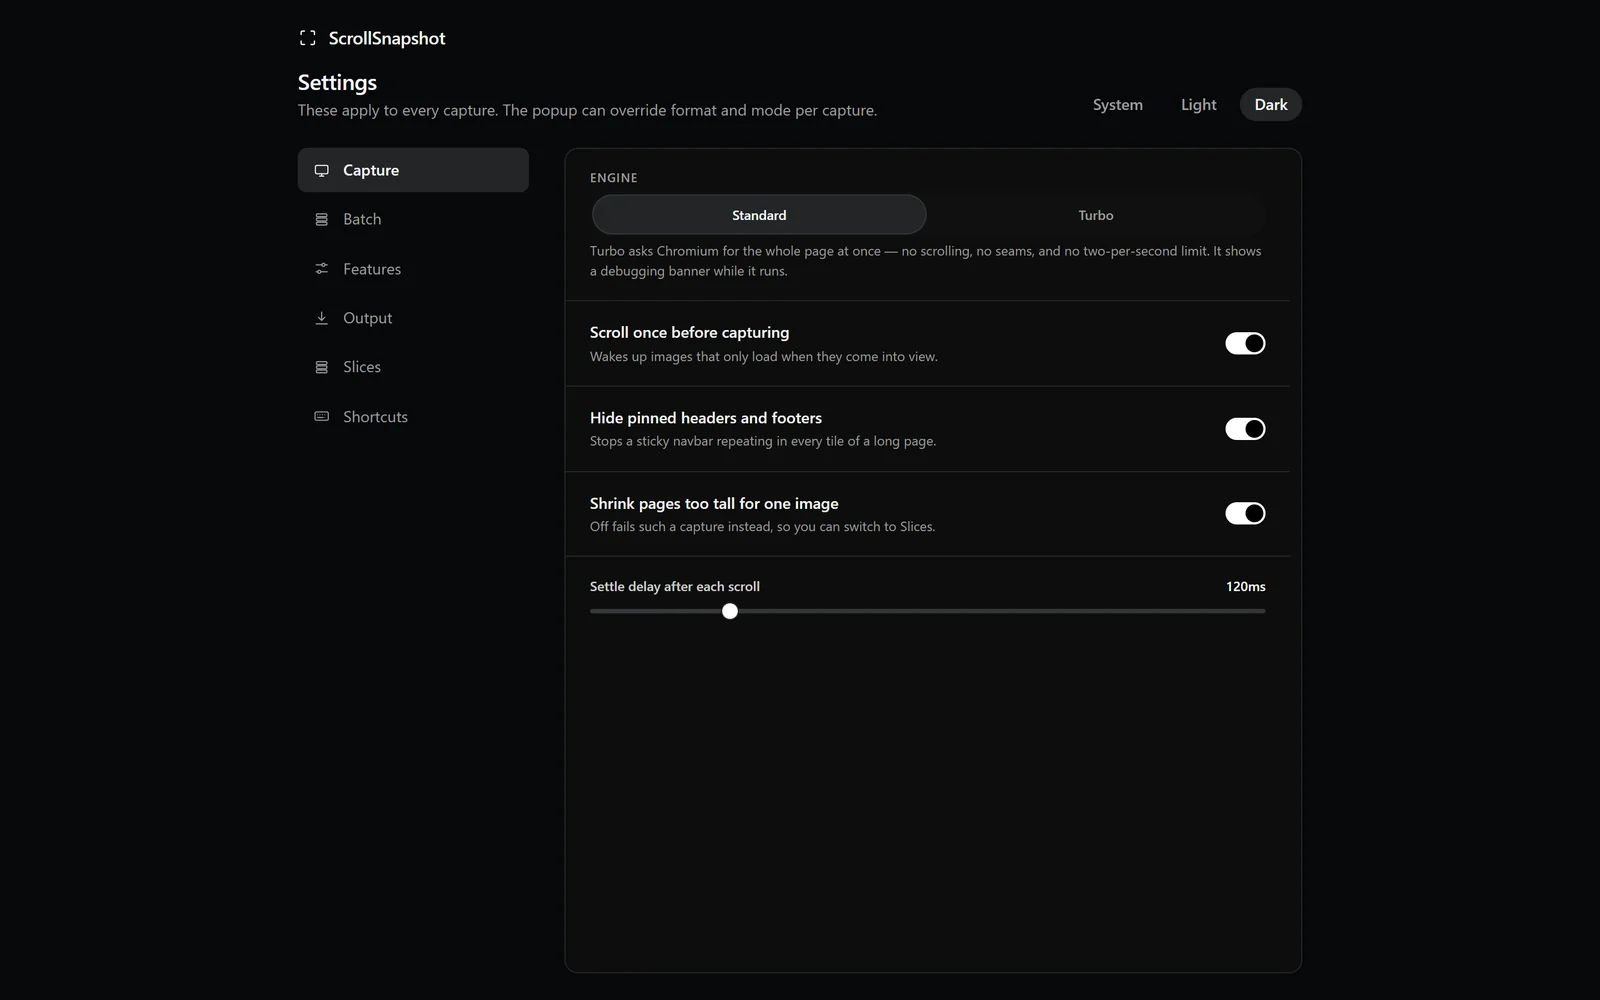
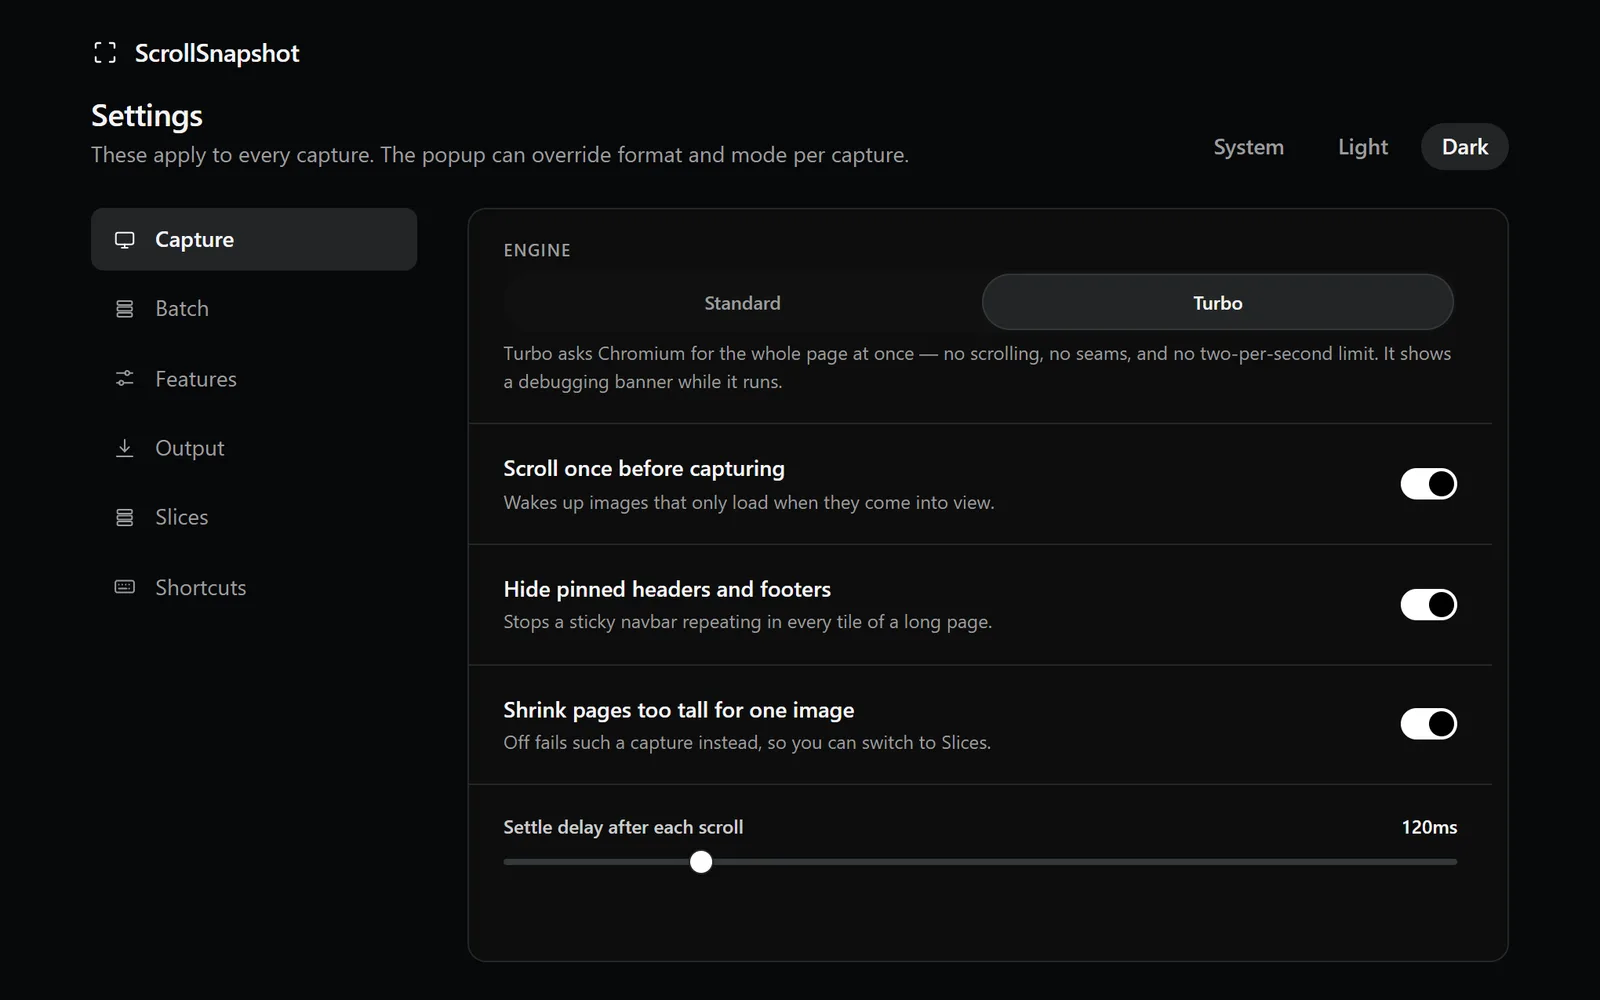
Replace store listing frames with caption-free site visuals
The five homepage images were the Chrome Web Store screenshots, and each
carries its own numbered caption because a listing shot has to stand alone
in a carousel. The site sets its own section number and headline in HTML,
so every one printed twice, and adding the Settings section left the baked
in numbers one step behind the page.

Regenerated from the composer's new site pass: the same artwork with no
caption block, at 1600px wide. Guide visuals now declare their own
dimensions per article instead of a shared 1280x800. The Turbo guide's
screenshot shows Turbo selected rather than Standard.

diff --git a/index.html b/index.html
@@ -97,7 +97,7 @@
 
       <figure class="hero-visual reveal">
         <div class="visual-topline"><span>SCROLLSNAPSHOT / IN CHROME</span><span>FIG. 01</span></div>
-        <img src="assets/modes.png" alt="ScrollSnapshot's full-page capture controls open over a web page in Chrome" width="1280" height="800" decoding="async" fetchpriority="high">
+        <img src="assets/modes.png" alt="ScrollSnapshot's full-page capture controls open over a web page in Chrome" width="1600" height="780" decoding="async" fetchpriority="high">
         <figcaption><span>Choose what to keep.</span><span>VISIBLE · FULL PAGE · SLICES · REGION</span></figcaption>
       </figure>
     </section>
@@ -130,7 +130,7 @@
         <span class="feature-note">FULL PAGE / PIXEL DETAIL</span>
       </div>
       <div class="feature-image dark-image reveal">
-        <img src="assets/full-page.png" alt="A full-page website capture displayed in ScrollSnapshot's result viewer" width="1280" height="800" loading="lazy" decoding="async">
+        <img src="assets/full-page.png" alt="A full-page website capture displayed in ScrollSnapshot's result viewer" width="1600" height="705" loading="lazy" decoding="async">
       </div>
     </section>
 
@@ -142,7 +142,7 @@
         <span class="feature-note">REGION / ELEMENT / COORDINATES</span>
       </div>
       <div class="feature-image dark-image reveal">
-        <img src="assets/region.png" alt="A precise, resizable selection over a web page" width="1280" height="800" loading="lazy" decoding="async">
+        <img src="assets/region.png" alt="A precise, resizable selection over a web page" width="1600" height="780" loading="lazy" decoding="async">
       </div>
     </section>
 
@@ -154,7 +154,7 @@
         <span class="feature-note">EDIT / COPY / DOWNLOAD</span>
       </div>
       <div class="feature-image dark-image reveal">
-        <img src="assets/editor.png" alt="ScrollSnapshot's editor showing a redaction box, arrow, and drawing controls" width="1280" height="800" loading="lazy" decoding="async">
+        <img src="assets/editor.png" alt="ScrollSnapshot's editor showing a redaction box, arrow, and drawing controls" width="1600" height="770" loading="lazy" decoding="async">
       </div>
     </section>
 

diff --git a/guides/full-page/index.html b/guides/full-page/index.html
@@ -52,7 +52,7 @@
         <h1 class="reveal">One page, top to bottom</h1>
         <p class="guide-article-lead reveal">Full page is for the layout as a whole: a landing page, a report, or a bug that only appears far below the fold. ScrollSnapshot moves through the page, captures the visible pieces, and stitches them together.</p>
       </header>
-      <div class="shell"><figure class="guide-article-visual"><a href="../../assets/full-page.png" target="_blank" rel="noopener" aria-label="Open full-size image: A full-page website capture in the ScrollSnapshot result viewer"><img src="../../assets/full-page.png" alt="A full-page website capture in the ScrollSnapshot result viewer" width="1280" height="800" loading="lazy"></a><figcaption><span>FIG. 02 / A full-page result, ready to inspect and export.</span><a href="../../assets/full-page.png" target="_blank" rel="noopener">OPEN FULL SIZE ↗</a></figcaption></figure></div>
+      <div class="shell"><figure class="guide-article-visual"><a href="../../assets/full-page.png" target="_blank" rel="noopener" aria-label="Open full-size image: A full-page website capture in the ScrollSnapshot result viewer"><img src="../../assets/full-page.png" alt="A full-page website capture in the ScrollSnapshot result viewer" width="1600" height="705" loading="lazy"></a><figcaption><span>FIG. 02 / A full-page result, ready to inspect and export.</span><a href="../../assets/full-page.png" target="_blank" rel="noopener">OPEN FULL SIZE ↗</a></figcaption></figure></div>
       <div class="guide-article-grid shell">
         <aside class="guide-article-aside" aria-label="On this page"><span>IN THIS GUIDE</span><a href="#section-1">What happens during the capture</a><a href="#section-2">Capture and review</a><a href="#section-3">When one image is too tall</a><a class="guide-aside-all" href="../">All guides ↗</a></aside>
         <div class="guide-article-body">

diff --git a/guides/annotate/index.html b/guides/annotate/index.html
@@ -52,7 +52,7 @@
         <h1 class="reveal">Make the important part obvious</h1>
         <p class="guide-article-lead reveal">Annotation turns a capture into an explanation. Draw a box around a faulty control, point an arrow at the exact state, or put a brief label where a reader will look first.</p>
       </header>
-      <div class="shell"><figure class="guide-article-visual"><a href="../../assets/editor.png" target="_blank" rel="noopener" aria-label="Open full-size image: ScrollSnapshot editor showing marks over a captured page"><img src="../../assets/editor.png" alt="ScrollSnapshot editor showing marks over a captured page" width="1280" height="800" loading="lazy"></a><figcaption><span>FIG. 15 / The marks preview over the capture before they are applied.</span><a href="../../assets/editor.png" target="_blank" rel="noopener">OPEN FULL SIZE ↗</a></figcaption></figure></div>
+      <div class="shell"><figure class="guide-article-visual"><a href="../../assets/editor.png" target="_blank" rel="noopener" aria-label="Open full-size image: ScrollSnapshot editor showing marks over a captured page"><img src="../../assets/editor.png" alt="ScrollSnapshot editor showing marks over a captured page" width="1600" height="770" loading="lazy"></a><figcaption><span>FIG. 15 / The marks preview over the capture before they are applied.</span><a href="../../assets/editor.png" target="_blank" rel="noopener">OPEN FULL SIZE ↗</a></figcaption></figure></div>
       <div class="guide-article-grid shell">
         <aside class="guide-article-aside" aria-label="On this page"><span>IN THIS GUIDE</span><a href="#section-1">Marks stay aligned with the image</a><a href="#section-2">Build a readable note</a><a class="guide-aside-all" href="../">All guides ↗</a></aside>
         <div class="guide-article-body">

diff --git a/guides/redact/index.html b/guides/redact/index.html
@@ -52,7 +52,7 @@
         <h1 class="reveal">Cover what should not travel</h1>
         <p class="guide-article-lead reveal">Redaction changes the image itself. Use it for a name, token, address, or other detail that should not appear in the exported capture.</p>
       </header>
-      <div class="shell"><figure class="guide-article-visual"><a href="../../assets/editor.png" target="_blank" rel="noopener" aria-label="Open full-size image: ScrollSnapshot editor with redaction and annotation controls"><img src="../../assets/editor.png" alt="ScrollSnapshot editor with redaction and annotation controls" width="1280" height="800" loading="lazy"></a><figcaption><span>FIG. 14 / Marks are applied to the image before export.</span><a href="../../assets/editor.png" target="_blank" rel="noopener">OPEN FULL SIZE ↗</a></figcaption></figure></div>
+      <div class="shell"><figure class="guide-article-visual"><a href="../../assets/editor.png" target="_blank" rel="noopener" aria-label="Open full-size image: ScrollSnapshot editor with redaction and annotation controls"><img src="../../assets/editor.png" alt="ScrollSnapshot editor with redaction and annotation controls" width="1600" height="770" loading="lazy"></a><figcaption><span>FIG. 14 / Marks are applied to the image before export.</span><a href="../../assets/editor.png" target="_blank" rel="noopener">OPEN FULL SIZE ↗</a></figcaption></figure></div>
       <div class="guide-article-grid shell">
         <aside class="guide-article-aside" aria-label="On this page"><span>IN THIS GUIDE</span><a href="#section-1">Two different marks</a><a href="#section-2">Check before you send</a><a href="#section-3">Text beside the image</a><a class="guide-aside-all" href="../">All guides ↗</a></aside>
         <div class="guide-article-body">

diff --git a/guides/region/index.html b/guides/region/index.html
@@ -52,7 +52,7 @@
         <h1 class="reveal">Capture only what you mean</h1>
         <p class="guide-article-lead reveal">A region capture starts with a boundary you control. Draw a rectangle on the page, trace a freeform shape, or enter exact page coordinates when the target is below the fold.</p>
       </header>
-      <div class="shell"><figure class="guide-article-visual"><a href="../../assets/region.png" target="_blank" rel="noopener" aria-label="Open full-size image: An editable region selection over a web page"><img src="../../assets/region.png" alt="An editable region selection over a web page" width="1280" height="800" loading="lazy"></a><figcaption><span>FIG. 04 / The selection remains editable before the capture.</span><a href="../../assets/region.png" target="_blank" rel="noopener">OPEN FULL SIZE ↗</a></figcaption></figure></div>
+      <div class="shell"><figure class="guide-article-visual"><a href="../../assets/region.png" target="_blank" rel="noopener" aria-label="Open full-size image: An editable region selection over a web page"><img src="../../assets/region.png" alt="An editable region selection over a web page" width="1600" height="780" loading="lazy"></a><figcaption><span>FIG. 04 / The selection remains editable before the capture.</span><a href="../../assets/region.png" target="_blank" rel="noopener">OPEN FULL SIZE ↗</a></figcaption></figure></div>
       <div class="guide-article-grid shell">
         <aside class="guide-article-aside" aria-label="On this page"><span>IN THIS GUIDE</span><a href="#section-1">The selection is still yours after the drag</a><a href="#section-2">Choose the shape</a><a href="#section-3">A reliable sequence</a><a class="guide-aside-all" href="../">All guides ↗</a></aside>
         <div class="guide-article-body">
